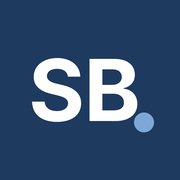
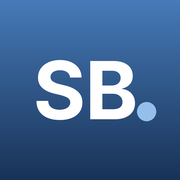
홈 화면 아이콘과 앱 이름 추가

diff --git a/index.html b/index.html
@@ -8,6 +8,7 @@
 <link rel="canonical" href="https://baesang2.github.io/">
 <link rel="icon" type="image/png" sizes="32x32" href="/favicon-32.png">
 <link rel="apple-touch-icon" href="/apple-touch-icon.png">
+<meta name="apple-mobile-web-app-title" content="이상배">
 <meta name="author" content="이상배">
 <meta name="naver-site-verification" content="c5cf4d7480654f7ff447c4e1ea0d71ca9dee46cf" />
 <meta name="color-scheme" content="light only">

diff --git a/reports/edu-election/index.html b/reports/edu-election/index.html
@@ -8,6 +8,7 @@
 <link rel="canonical" href="https://baesang2.github.io/reports/edu-election/">
 <link rel="icon" type="image/png" sizes="32x32" href="/favicon-32.png">
 <link rel="apple-touch-icon" href="/apple-touch-icon.png">
+<meta name="apple-mobile-web-app-title" content="이상배">
 <meta name="author" content="이상배">
 <meta name="color-scheme" content="light only">
 <meta name="theme-color" content="#ffffff">

diff --git a/reports/busanpedia/index.html b/reports/busanpedia/index.html
@@ -8,6 +8,7 @@
 <link rel="canonical" href="https://baesang2.github.io/reports/busanpedia/">
 <link rel="icon" type="image/png" sizes="32x32" href="/favicon-32.png">
 <link rel="apple-touch-icon" href="/apple-touch-icon.png">
+<meta name="apple-mobile-web-app-title" content="이상배">
 <meta name="author" content="이상배">
 <meta name="color-scheme" content="light only">
 <meta name="theme-color" content="#ffffff">

diff --git a/reports/isolated/index.html b/reports/isolated/index.html
@@ -8,6 +8,7 @@
 <link rel="canonical" href="https://baesang2.github.io/reports/isolated/">
 <link rel="icon" type="image/png" sizes="32x32" href="/favicon-32.png">
 <link rel="apple-touch-icon" href="/apple-touch-icon.png">
+<meta name="apple-mobile-web-app-title" content="이상배">
 <meta name="author" content="이상배">
 <meta name="color-scheme" content="light only">
 <meta name="theme-color" content="#ffffff">

diff --git a/reports/maritime/index.html b/reports/maritime/index.html
@@ -8,6 +8,7 @@
 <link rel="canonical" href="https://baesang2.github.io/reports/maritime/">
 <link rel="icon" type="image/png" sizes="32x32" href="/favicon-32.png">
 <link rel="apple-touch-icon" href="/apple-touch-icon.png">
+<meta name="apple-mobile-web-app-title" content="이상배">
 <meta name="author" content="이상배">
 <meta name="color-scheme" content="light only">
 <meta name="theme-color" content="#ffffff">

diff --git a/reports/bukhang/index.html b/reports/bukhang/index.html
@@ -8,6 +8,7 @@
 <link rel="canonical" href="https://baesang2.github.io/reports/bukhang/">
 <link rel="icon" type="image/png" sizes="32x32" href="/favicon-32.png">
 <link rel="apple-touch-icon" href="/apple-touch-icon.png">
+<meta name="apple-mobile-web-app-title" content="이상배">
 <meta name="author" content="이상배">
 <meta name="color-scheme" content="light only">
 <meta name="theme-color" content="#ffffff">

diff --git a/reports/council/index.html b/reports/council/index.html
@@ -8,6 +8,7 @@
 <link rel="canonical" href="https://baesang2.github.io/reports/council/">
 <link rel="icon" type="image/png" sizes="32x32" href="/favicon-32.png">
 <link rel="apple-touch-icon" href="/apple-touch-icon.png">
+<meta name="apple-mobile-web-app-title" content="이상배">
 <meta name="author" content="이상배">
 <meta name="color-scheme" content="light only">
 <meta name="theme-color" content="#ffffff">

diff --git a/reports/funeral/index.html b/reports/funeral/index.html
@@ -8,6 +8,7 @@
 <link rel="canonical" href="https://baesang2.github.io/reports/funeral/">
 <link rel="icon" type="image/png" sizes="32x32" href="/favicon-32.png">
 <link rel="apple-touch-icon" href="/apple-touch-icon.png">
+<meta name="apple-mobile-web-app-title" content="이상배">
 <meta name="author" content="이상배">
 <meta name="color-scheme" content="light only">
 <meta name="theme-color" content="#ffffff">

diff --git a/reports/sanbok/index.html b/reports/sanbok/index.html
@@ -8,6 +8,7 @@
 <link rel="canonical" href="https://baesang2.github.io/reports/sanbok/">
 <link rel="icon" type="image/png" sizes="32x32" href="/favicon-32.png">
 <link rel="apple-touch-icon" href="/apple-touch-icon.png">
+<meta name="apple-mobile-web-app-title" content="이상배">
 <meta name="author" content="이상배">
 <meta name="color-scheme" content="light only">
 <meta name="theme-color" content="#ffffff">

diff --git a/reports/youth/index.html b/reports/youth/index.html
@@ -8,6 +8,7 @@
 <link rel="canonical" href="https://baesang2.github.io/reports/youth/">
 <link rel="icon" type="image/png" sizes="32x32" href="/favicon-32.png">
 <link rel="apple-touch-icon" href="/apple-touch-icon.png">
+<meta name="apple-mobile-web-app-title" content="이상배">
 <meta name="author" content="이상배">
 <meta name="color-scheme" content="light only">
 <meta name="theme-color" content="#ffffff">

diff --git a/lectures/index.html b/lectures/index.html
@@ -8,6 +8,7 @@
 <link rel="canonical" href="https://baesang2.github.io/lectures/">
 <link rel="icon" type="image/png" sizes="32x32" href="/favicon-32.png">
 <link rel="apple-touch-icon" href="/apple-touch-icon.png">
+<meta name="apple-mobile-web-app-title" content="이상배">
 <meta name="author" content="이상배">
 <meta name="color-scheme" content="light only">
 <meta name="theme-color" content="#ffffff">

diff --git a/reports/index.html b/reports/index.html
@@ -8,6 +8,7 @@
 <link rel="canonical" href="https://baesang2.github.io/reports/">
 <link rel="icon" type="image/png" sizes="32x32" href="/favicon-32.png">
 <link rel="apple-touch-icon" href="/apple-touch-icon.png">
+<meta name="apple-mobile-web-app-title" content="이상배">
 <meta name="author" content="이상배">
 <meta name="color-scheme" content="light only">
 <meta name="theme-color" content="#ffffff">
